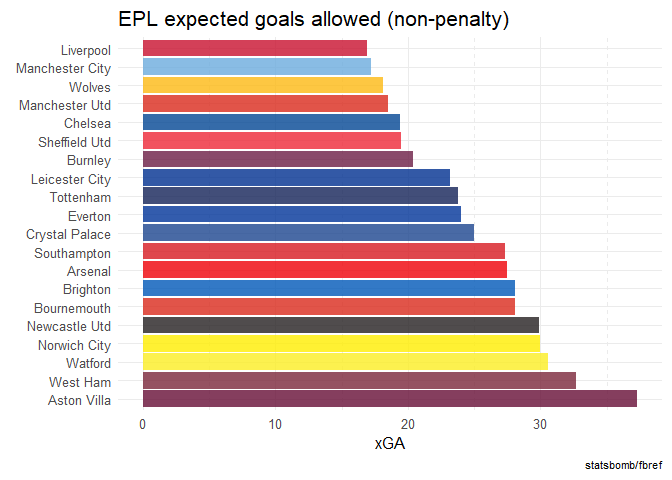
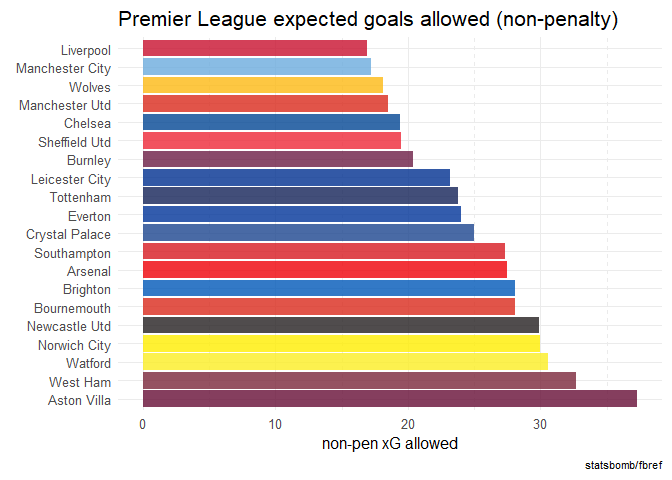
knit

Changed region(s): [[0.1875, 0.0, 0.9375, 0.0625], [0.4688, 0.9062, 0.6875, 0.9375]]

diff --git a/fbref.md b/fbref.md
@@ -3,4 +3,4 @@
 
 ### Premier League plots
 
-![](fbref_files/figure-gfm/plots-epl-1.png)<!-- -->![](fbref_files/figure-gfm/plots-epl-2.png)<!-- -->![](fbref_files/figure-gfm/plots-epl-3.png)<!-- -->
+![](fbref_files/figure-gfm/plots-epl-1.png)<!-- -->![](fbref_files/figure-gfm/plots-epl-2.png)<!-- -->![](fbref_files/figure-gfm/plots-epl-3.png)<!-- -->![](fbref_files/figure-gfm/plots-epl-4.png)<!-- -->
